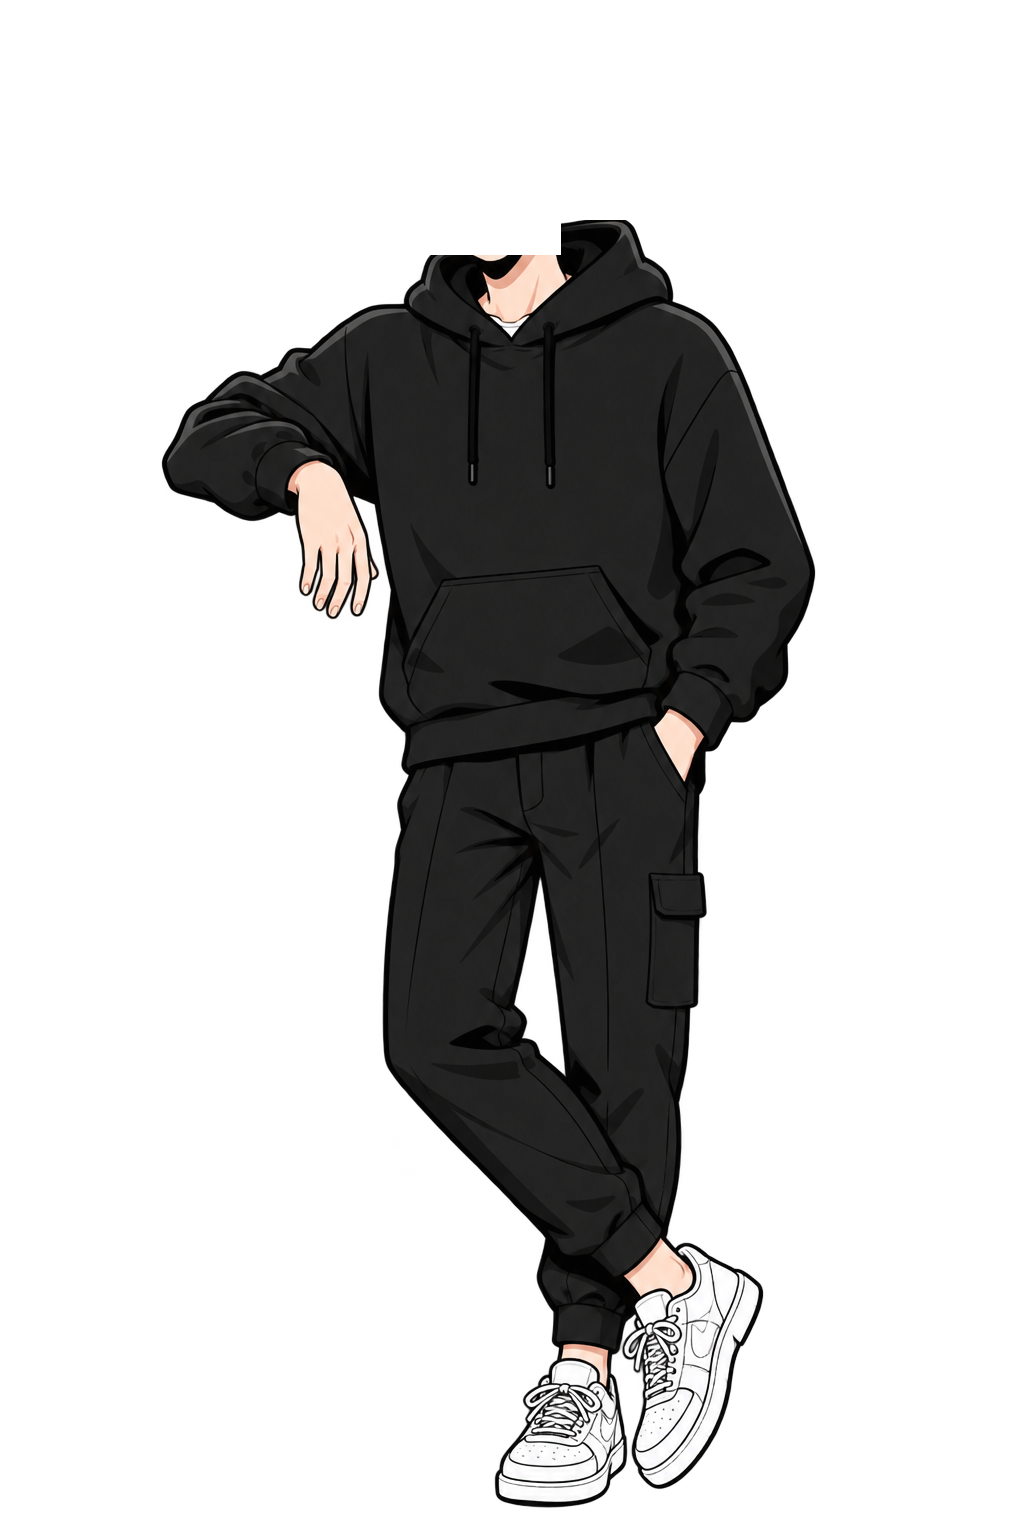
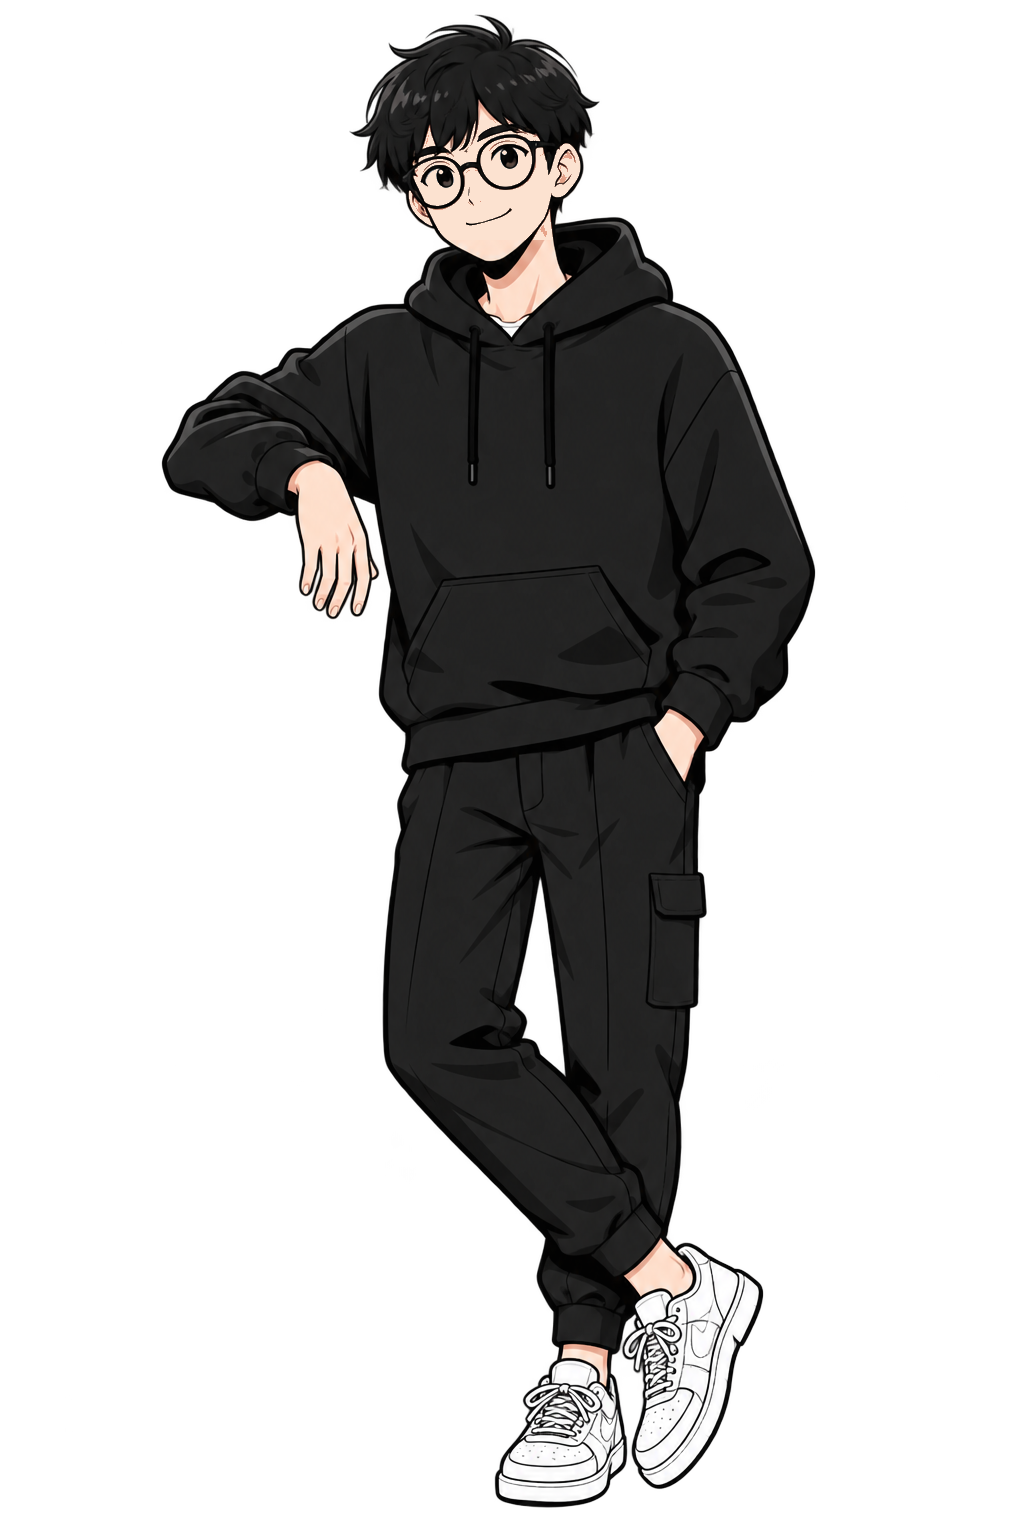
fix: remove rectangular bounding box artifacts around neck and collar, seamless organic layering

Changed region(s): [[0.3438, 0.0, 0.5938, 0.1875]]

diff --git a/index.html b/index.html
@@ -27,7 +27,7 @@
     input, button, select, textarea { -webkit-tap-highlight-color: transparent; }
   </style>
 
-  <link rel="stylesheet" href="style.css?v=20260814_tpspace_hero_locked_31">
+  <link rel="stylesheet" href="style.css?v=20260814_tpspace_hero_clean_mask_32">
 </head>
 <body data-theme="light">
   <!-- 背景方格纸网格、环境光与手绘几何浮动 Canvas (Graph Paper Grid & Interactive Ink Doodle Canvas) -->
